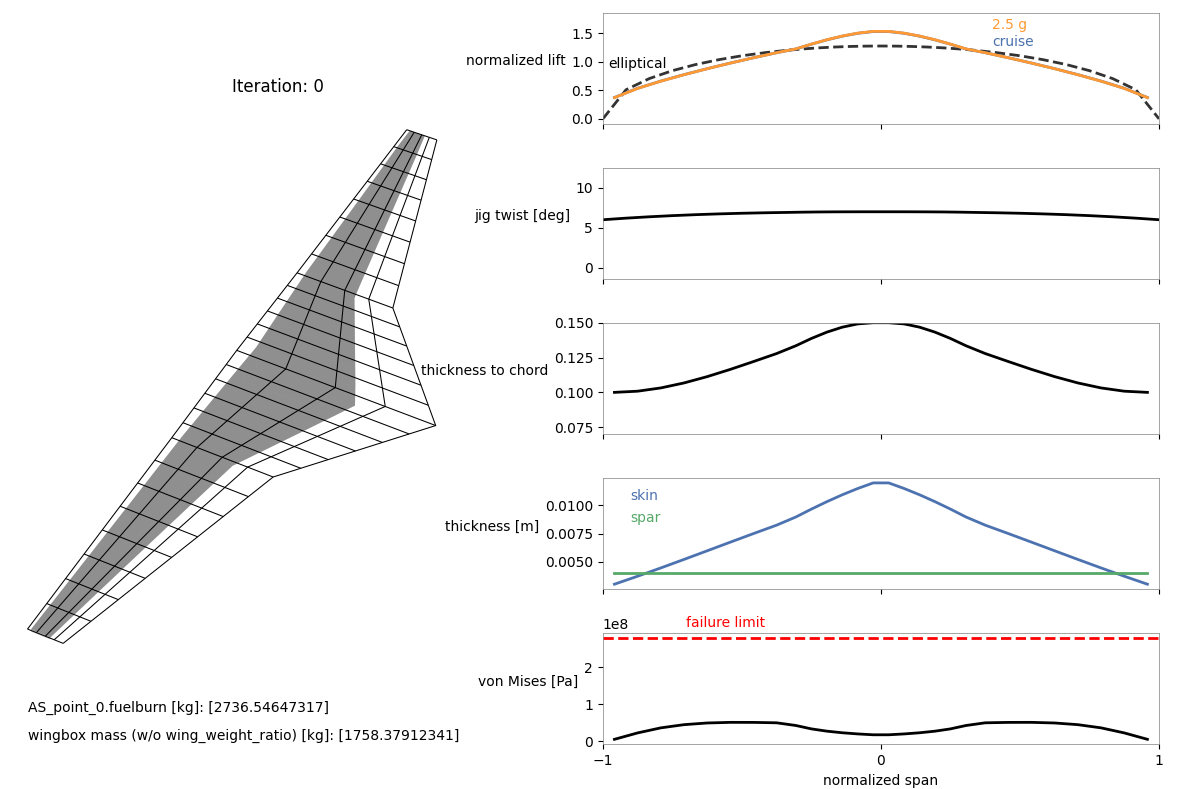
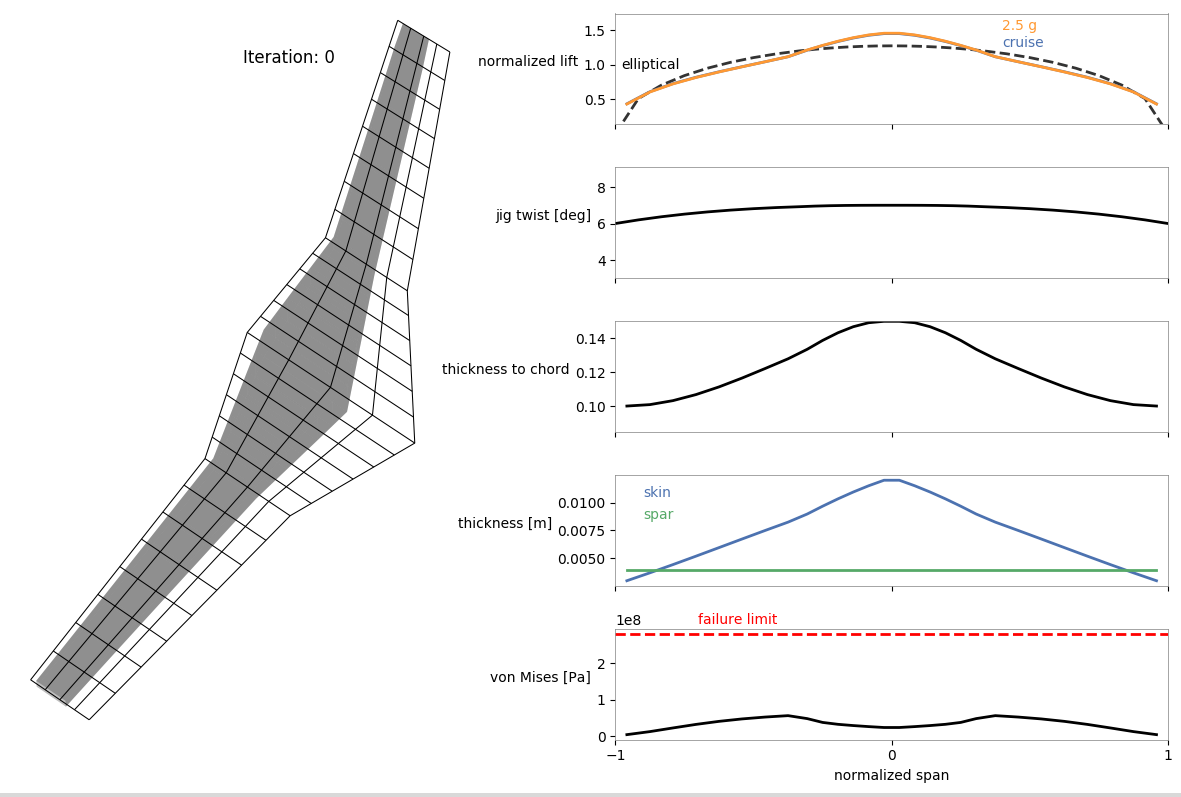
Adding sweep to the custom mesh example (#331)
* Adding sweep to the custom mesh example

* Minor

* Adding wingbox image to readme

diff --git a/openaerostruct/docs/two_part_wing_custom_mesh.py b/openaerostruct/docs/two_part_wing_custom_mesh.py
@@ -21,38 +21,42 @@ import openmdao.api as om
 
 #docs checkpoint 0
 # -----------------------------------------------------------------------------
-# CUSTOM MESH: Example mesh for a 2 segment wing.
+# CUSTOM MESH: Example mesh for a 2-segment wing with sweep
 # -----------------------------------------------------------------------------
 
 # Planform specifications
 half_span = 12.0               # wing half-span in m
-kink_location = 4.0            # spanwise loc of the kink in m
+kink_location = 4.0            # spanwise location of the kink in m
+
 root_chord = 6.0               # root chord in m
 kink_chord = 3.0               # kink chord in m
-tip_chord = 1.0                # tip chord in m
+tip_chord = 2.0                # tip chord in m
+
+inboard_LE_sweep = 10.         # inboard leading-edge sweep angle in deg
+outboard_LE_sweep = -10.       # outboard leading-edge sweep angle in deg
 
 # Mesh specifications
-nx = 5              # number of chordwise nodal points (should be odd)
-ny_outboard = 9    # number of spanwise nodal points for the outboard segment
-ny_inboard = 7      # number of spanwise nodal points for the inboard segment
+nx = 5                         # number of chordwise nodal points (should be odd)
+ny_outboard = 9                # number of spanwise nodal points for the outboard segment
+ny_inboard = 7                 # number of spanwise nodal points for the inboard segment
 
 # Initialize the 3-D mesh object. Indexing: Chordwise, spanwise, then the 3-D coordinates.
 # We use ny_inboard+ny_outboard-1 because the 2 segments share the nodes where they connect.
 mesh = np.zeros((nx, ny_inboard+ny_outboard-1, 3))
 
 # The form of this 3-D array can be confusing initially.
-# For each node we are providing the x, y, and z coordinates.
+# For each node, we are providing the x, y, and z coordinates.
 # x is streamwise, y is spanwise, and z is up.
 # For example, the node for the leading edge at the tip would be specified as mesh[0, 0, :] = np.array([x, y, z]).
 # And the node at the trailing edge at the root would be mesh[nx-1, ny-1, :] = np.array([x, y, z]).
-# We only provide the left half of the wing because we use symmetry.
+# We only provide the right half of the wing here because we use symmetry.
 # Print elements of the mesh to better understand the form.
 
-# Assume the leading edge doesn't have sweep for this simple example.
-# So set the x-coordinates for all the leading-edge points to 0.
-mesh[0, :, 0] = 0.
+####### THE Z-COORDINATES ######
 # Assume no dihedral, so set the z-coordinate for all the points to 0.
 mesh[:, :, 2] = 0.
+
+####### THE Y-COORDINATES ######
 # Using uniform spacing for the spanwise locations of all the nodes within each of the two trapezoidal segments:
 # Outboard
 mesh[:, :ny_outboard, 1] = np.linspace(half_span, kink_location, ny_outboard)
@@ -60,16 +64,45 @@ mesh[:, :ny_outboard, 1] = np.linspace(half_span, kink_location, ny_outboard)
 mesh[:, ny_outboard:ny_outboard+ny_inboard,
      1] = np.linspace(kink_location, 0, ny_inboard)[1:]
 
-# We'll use the chord lengths to linearly interpolate the rest of the x coordinates
-for i in range(1, nx):
-    chord_fraction = float(i) / (nx-1)
+###### THE X-COORDINATES ######
+# Start with the leading edge and create some intermediate arrays that we will use
+x_LE = np.zeros(ny_inboard + ny_outboard - 1)
 
-    mesh[i, :ny_outboard, 0] = chord_fraction * np.linspace(
-        0, 1., ny_outboard) * kink_chord + chord_fraction * np.linspace(1., 0., ny_outboard) * tip_chord
+array_for_inboard_leading_edge_x_coord = np.linspace(
+    0, kink_location, ny_inboard) * np.tan(inboard_LE_sweep / 180. * np.pi)
 
-    mesh[i, ny_outboard:ny_outboard+ny_inboard-1, 0] = chord_fraction * np.linspace(
-        0, 1., ny_inboard)[1:] * root_chord + chord_fraction * np.linspace(1., 0., ny_inboard)[1:] * kink_chord
+array_for_outboard_leading_edge_x_coord = np.linspace(0, half_span - kink_location, ny_outboard) * np.tan(
+    outboard_LE_sweep / 180. * np.pi) + np.ones(ny_outboard) * array_for_inboard_leading_edge_x_coord[-1]
 
+x_LE[:ny_inboard] = array_for_inboard_leading_edge_x_coord
+x_LE[ny_inboard: ny_inboard +
+     ny_outboard] = array_for_outboard_leading_edge_x_coord[1:]
+
+# Then the trailing edge
+x_TE = np.zeros(ny_inboard + ny_outboard - 1)
+
+array_for_inboard_trailing_edge_x_coord = np.linspace(
+    array_for_inboard_leading_edge_x_coord[0] + root_chord, array_for_inboard_leading_edge_x_coord[-1] + kink_chord, ny_inboard)
+
+array_for_outboard_trailing_edge_x_coord = np.linspace(
+    array_for_outboard_leading_edge_x_coord[0] + kink_chord, array_for_outboard_leading_edge_x_coord[-1] + tip_chord, ny_outboard)
+
+x_TE[:ny_inboard] = array_for_inboard_trailing_edge_x_coord
+x_TE[ny_inboard: ny_inboard +
+     ny_outboard] = array_for_outboard_trailing_edge_x_coord[1:]
+
+# # Quick plot to check leading and trailing edge x-coords
+# plt.plot(x_LE, np.arange(0, ny_inboard+ny_outboard-1), marker='*')
+# plt.plot(x_TE, np.arange(0, ny_inboard+ny_outboard-1), marker='*')
+# plt.show()
+# exit()
+
+for i in range(0, ny_inboard+ny_outboard-1):
+    mesh[:, i, 0] = np.linspace(np.flip(x_LE)[i], np.flip(x_TE)[i], nx)
+
+# -----------------------------------------------------------------------------
+# END MESH
+# -----------------------------------------------------------------------------
 #docs checkpoint 1
 
 

diff --git a/README.md b/README.md
@@ -7,18 +7,22 @@ OpenAeroStruct
 OpenAeroStruct is a lightweight tool that performs aerostructural optimization using OpenMDAO.
 It couples a vortex-lattice method (VLM) and a 6 degrees of freedom 3-dimensional spatial beam model to simulate aerodynamic and structural analyses using lifting surfaces.
 These simulations are wrapped with an optimizer using NASA's OpenMDAO framework.
-The analysis and optimization results can be visualized using included tools, producing figures such as this:
+The analysis and optimization results can be visualized using included tools, producing figures such as these:
 
+*With a tubular structure*
 ![Example](openaerostruct/docs/example.png)
+
+*With a wingbox structure*
+![Example2](openaerostruct/docs/wingbox_fine.png)
+
+Please note that this repository is provided as is without any guaranteed support.
+If you would like to highlight issues, ask questions, or make changes, please do so using GitHub Issues and Pull Requests.
+The developers will address them at their discretion.
 
 Install OpenAeroStruct by cloning this repository and entering the folder it generates.
 Then do:
 
 `pip install -e .`
-
-Please note that this repository is provided as is without any guaranteed support.
-If you would like to highlight issues, ask questions, or make changes, please do so using GitHub Issues and Pull Requests.
-The developers will address them at their discretion.
 
 Documentation
 -------------
